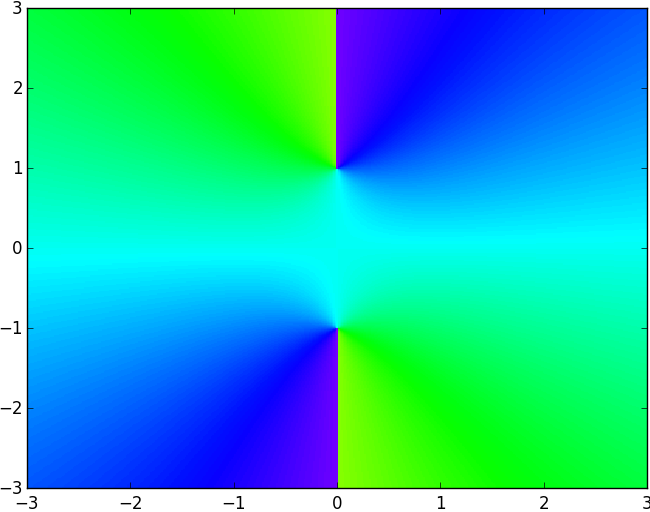
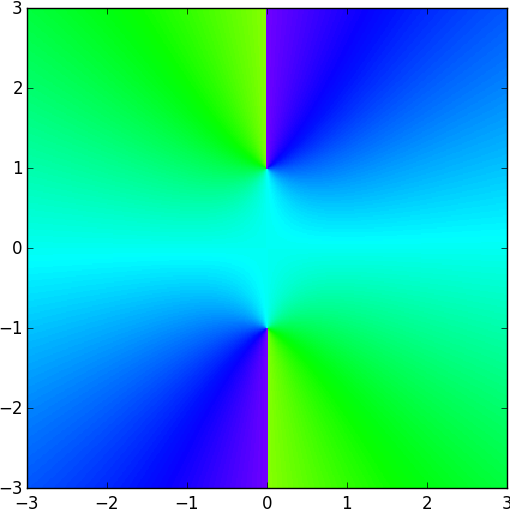
Included Rachel Webb's new plotting script and the plots it generates

diff --git a/Labs/ComplexNumbers/plots2.py b/Labs/ComplexNumbers/plots2.py
@@ -1,0 +1,89 @@
+import numpy as np
+import matplotlib.pyplot as plt
+from colorsys import hls_to_rgb
+
+def colorize(z):
+    zy=np.flipud(z)
+    r = np.abs(zy)
+    arg = np.angle(zy)
+
+    h = (arg + np.pi)  / (2 * np.pi) + 0.5
+    l = 1.0 - 1.0/(1.0 + r**.75)
+    s = .8
+    
+    c = np.vectorize(hls_to_rgb) (h,l,s) # --> tuple
+    c = np.array(c)  # -->  array of (3,n,m) shape, but need (n,m,3)
+    c = c.swapaxes(0,2)
+    c = c.swapaxes(0,1)
+    return c
+    
+def plot_complex(f, xbounds, ybounds, res):
+    x = np.linspace(xbounds[0], xbounds[1], res)
+    y = np.linspace(ybounds[0], ybounds[1], res)
+    X,Y = np.meshgrid(x,y)
+    Z=f(X+Y*1j)
+    plt.pcolormesh(X, Y, np.angle(Z), cmap='hsv', vmin=-np.pi, vmax=np.pi)
+    plt.show()
+    
+def plot_complex2(f, xbounds, ybounds, res):
+    x = np.linspace(xbounds[0],xbounds[1], res)
+    y = np.linspace(ybounds[0],ybounds[1], res)
+    X,Y = np.meshgrid(x,y)
+    Z=f(X+Y*1j)
+    Zc = colorize(Z)
+    plt.imshow(Zc, extent=(xbounds[0], xbounds[1], ybounds[0], ybounds[1]))
+    plt.show()
+    
+################################################
+################################################
+# PLOTS
+
+def check_plot():
+    f = lambda x:np.sqrt(x**2+1)
+    x = np.linspace(-3, 3, 401)
+    y = np.linspace(-3, 3, 401)
+    X,Y = np.meshgrid(x,y)
+    Z=f(X+Y*1j)
+    plt.pcolormesh(X, Y, np.angle(Z), cmap='hsv', vmin=-np.pi, vmax=np.pi)
+    plt.gca().set_aspect('equal', adjustable='box')
+    plt.savefig('check_plot.png', bbox_inches='tight', pad_inches=0)
+    plt.close()
+    
+def plot_id():
+    f = lambda x:x
+    x = np.linspace(-1, 1, 401)
+    y = np.linspace(-1, 1, 401)
+    X,Y = np.meshgrid(x,y)
+    Z=f(X+Y*1j)
+    plt.pcolormesh(X, Y, np.angle(Z), cmap='hsv', vmin=-np.pi, vmax=np.pi)
+    plt.gca().set_aspect('equal', adjustable='box')
+    plt.savefig('Identity.png', bbox_inches='tight', pad_inches=0)
+    plt.close()
+    
+def zeros():
+    f = lambda x:x**3-1j*x**4-3*x**6
+    x = np.linspace(-1, 1, 401)
+    y = np.linspace(-1, 1, 401)
+    X,Y = np.meshgrid(x,y)
+    Z=f(X+Y*1j)
+    plt.pcolormesh(X, Y, np.angle(Z), cmap='hsv', vmin=-np.pi, vmax=np.pi)
+    plt.gca().set_aspect('equal', adjustable='box')
+    plt.savefig('zeros.png', bbox_inches='tight', pad_inches=0)
+    plt.close()
+    
+def essential_pole():
+    f = lambda x : np.exp(1/x)
+    x = np.linspace(-1, 1, 803)
+    y = np.linspace(-1, 1, 803)
+    X,Y = np.meshgrid(x,y)
+    Z=f(X+Y*1j)
+    plt.pcolormesh(X, Y, np.angle(Z), cmap='hsv', vmin=-np.pi, vmax=np.pi)
+    plt.gca().set_aspect('equal', adjustable='box')
+    plt.savefig('essential_pole.png', bbox_inches='tight', pad_inches=0)
+    plt.close()
+
+if __name__=='__main__':
+	check_plot()
+	plot_id()
+	zeros()
+	essential_pole()
